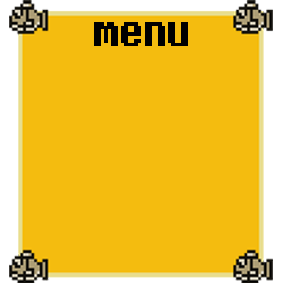
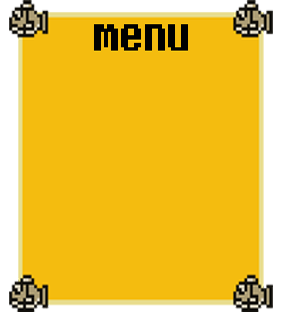
Added Help Screen / Removed menu texture from background screen

diff --git a/fishboy/fishboy/Screens/HelpScreen.cs b/fishboy/fishboy/Screens/HelpScreen.cs
@@ -1,0 +1,146 @@
+#region File Description
+//-----------------------------------------------------------------------------
+// OptionsMenuScreen.cs
+//
+// Microsoft XNA Community Game Platform
+// Copyright (C) Microsoft Corporation. All rights reserved.
+//-----------------------------------------------------------------------------
+#endregion
+
+#region Using Statements
+using Microsoft.Xna.Framework;
+using Microsoft.Xna.Framework.Content;
+using Microsoft.Xna.Framework.Graphics;
+using System;
+using Microsoft.Xna.Framework.Input;
+#endregion
+
+namespace fishboy
+{
+    /// <summary>
+    /// The options screen is brought up over the top of the main menu
+    /// screen, and gives the user a chance to configure the game
+    /// in various hopefully useful ways.
+    /// </summary>
+    class HelpScreen : GameScreen
+    {
+        #region Fields
+        ContentManager content;
+        private string creditsText = "Fuschia \n Game \n Studios";
+        MenuEntry creditsMenuEntry;
+        Texture2D helpScreen;
+        #endregion
+
+        #region Initialization
+
+
+        /// <summary>
+        /// Constructor.
+        /// </summary>
+        public HelpScreen()
+        {
+            TransitionOnTime = TimeSpan.FromSeconds(1.5);
+            TransitionOffTime = TimeSpan.FromSeconds(0.5);
+
+        }
+
+
+        #endregion
+
+        #region Load and UnloadContent
+        /// <summary>
+        /// Loads graphics content for this screen. The background texture is quite
+        /// big, so we use our own local ContentManager to load it. This allows us
+        /// to unload before going from the menus into the game itself, wheras if we
+        /// used the shared ContentManager provided by the Game class, the content
+        /// would remain loaded forever.
+        /// </summary>
+        public override void LoadContent()
+        {
+            if (content == null)
+                content = new ContentManager(ScreenManager.Game.Services, "Content");
+
+            helpScreen = content.Load<Texture2D>("help");
+
+        }
+
+        /// <summary>
+        /// Unload graphics content used by the game.
+        /// </summary>
+        public override void UnloadContent()
+        {
+            content.Unload();
+        }
+
+
+        #endregion
+
+
+        #region update and draw
+
+        /// <summary>
+        /// Updates the state of the game. This method checks the GameScreen.IsActive
+        /// property, so the game will stop updating when the pause menu is active,
+        /// or if you tab away to a different application.
+        /// </summary>
+        public override void Update(GameTime gameTime, bool otherScreenHasFocus,
+                                                       bool coveredByOtherScreen)
+        {
+            base.Update(gameTime, otherScreenHasFocus, coveredByOtherScreen);
+
+
+        }
+
+        /// <summary>
+        /// Draws the menu.
+        /// </summary>
+        public override void Draw(GameTime gameTime)
+        {
+           
+
+            GraphicsDevice graphics = ScreenManager.GraphicsDevice;
+            SpriteBatch spriteBatch = ScreenManager.SpriteBatch;
+            SpriteFont font = ScreenManager.Font;
+
+
+            spriteBatch.Begin();
+            //menu bg
+            spriteBatch.Draw(helpScreen,
+                Vector2.Zero,
+                Color.White);
+
+           
+            spriteBatch.End();
+        }
+        #endregion
+
+        /// <summary>
+        /// Lets the game respond to player input. Unlike the Update method,
+        /// this will only be called when the gameplay screen is active.
+        /// </summary>
+        public override void HandleInput(InputState input)
+        {
+            if (input == null)
+                throw new ArgumentNullException("input");
+
+            // Look up inputs for the active player profile.
+            int playerIndex = (int)ControllingPlayer.Value;
+
+            KeyboardState keyboardState = input.CurrentKeyboardStates[playerIndex];
+            GamePadState gamePadState = input.CurrentGamePadStates[playerIndex];
+
+            // if the user pressed the back button, we return to the main menu
+            PlayerIndex player;
+            if (input.IsNewButtonPress(Buttons.Back, ControllingPlayer, out player))
+            {
+                LoadingScreen.Load(ScreenManager, false, ControllingPlayer, new BackgroundScreen(), new MainMenuScreen());
+            }
+            else
+            {
+                // Otherwise move the player position.
+            }
+        }
+
+
+    }
+}

diff --git a/fishboy/fishboy/Screens/GameplayScreen.cs b/fishboy/fishboy/Screens/GameplayScreen.cs
@@ -54,6 +54,8 @@ namespace fishboy
         int score;
         int hiscore;
         int level;
+        int fishQuantity;
+        float fishVel;
         private float[] angles = { MathHelper.ToRadians(90), MathHelper.ToRadians(45), -MathHelper.ToRadians(45) };
 
         Song theme;
@@ -77,6 +79,7 @@ namespace fishboy
             score = 0;
             level = 1;
             lifes = 4;
+            fishVel = 0.10f;
         }
 
 
@@ -212,20 +215,25 @@ namespace fishboy
                 var fishBoyRect = new Rectangle((int)boy.position.X, (int)boy.position.Y,
                         boyTexture.Width, boyTexture.Height);
 
-                int fishQuantity = FibonacciFishes(level) / level;
 
+              
+                fishQuantity = FibonacciFishes(level);
+                if (level > 7)
+                { 
+                    fishVel = 0.10f *  ( level / (level + 1) );
+                }
                 for (int i = 0; i < fishQuantity; i++)
                 {
                         
-                    fishes[i].update(gameTime, 0.10f);
+                    fishes[i].update(gameTime, fishVel);
                     if (fishes[i].isDead)
                     {
                         lifes--;
-                        fishes.Remove(fishes[i]);
+                        fishes[i].reboot(ScreenManager.GraphicsDevice.Viewport.Height, ScreenManager.GraphicsDevice.Viewport.Width);
                     }else if (fishes[i].hit(fishBoyRect, hit))
                     {
                         score += 10;
-                        fishes.Remove(fishes[i]);
+                        fishes[i].reboot(ScreenManager.GraphicsDevice.Viewport.Height, ScreenManager.GraphicsDevice.Viewport.Width);
                     }
                 }
 
@@ -237,8 +245,9 @@ namespace fishboy
         /// </summary>
         public int FibonacciFishes(int level)
         {
-            int[] sequence = new int[] { 1, 1, 2, 3, 5, 8, 13, 21, 34, 55, 89 };
-            return sequence[level - 1];
+            int[] sequence = new int[] { 1, 1, 2, 3, 5, 8, 13 };
+            int key = level  % 7;
+            return sequence[key];
         }
 
         /// <summary>
@@ -289,6 +298,11 @@ namespace fishboy
 
             //hiscore
             spriteBatch.DrawString(scoreFont,"HISCORE " + hiscore.ToString(), new Vector2(ScreenManager.GraphicsDevice.Viewport.Width / 2 - 90, 20), Color.Red);
+            
+
+            //DEBUG
+            spriteBatch.DrawString(scoreFont, fishQuantity.ToString(), new Vector2(20, 20), Color.Red);
+
 
             //hearts
             var lifePos = new Vector2(ScreenManager.GraphicsDevice.Viewport.Width / 2 - 50, heartTexture.Width + 30);

diff --git a/fishboy/fishboy/Screens/MenuScreen.cs b/fishboy/fishboy/Screens/MenuScreen.cs
@@ -15,6 +15,7 @@ using Microsoft.Xna.Framework.Graphics;
 using Microsoft.Xna.Framework.Input.Touch;
 using Microsoft.Xna.Framework.Input;
 using System.IO.IsolatedStorage;
+using Microsoft.Xna.Framework.Content;
 #endregion
 
 namespace fishboy
@@ -26,13 +27,14 @@ namespace fishboy
     abstract class MenuScreen : GameScreen
     {
         #region Fields
+        ContentManager content;
         // the number of pixels to pad above and below menu entries for touch input
         const int menuEntryPadding = 10;
 
         List<MenuEntry> menuEntries = new List<MenuEntry>();
         int selectedEntry = 0;
         string menuTitle;
-
+        Texture2D menuTexture;
         #endregion
 
         #region Properties
@@ -224,7 +226,10 @@ namespace fishboy
             
 
             spriteBatch.Begin();
-           
+            //menu bg
+            spriteBatch.Draw(menuTexture,
+                new Vector2(ScreenManager.GraphicsDevice.Viewport.Width / 2 - 140, 140),
+                Color.White);
 
             // Draw each menu entry in turn.
             for (int i = 0; i < menuEntries.Count; i++)
@@ -255,6 +260,34 @@ namespace fishboy
             spriteBatch.End();
         }
 
+
+        #endregion
+
+        #region Load and UnloadContent
+        /// <summary>
+        /// Loads graphics content for this screen. The background texture is quite
+        /// big, so we use our own local ContentManager to load it. This allows us
+        /// to unload before going from the menus into the game itself, wheras if we
+        /// used the shared ContentManager provided by the Game class, the content
+        /// would remain loaded forever.
+        /// </summary>
+        public override void LoadContent()
+        {
+            if (content == null)
+                content = new ContentManager(ScreenManager.Game.Services, "Content");
+
+
+            menuTexture = content.Load<Texture2D>("menu_texture");
+
+        }
+
+        /// <summary>
+        /// Unloads graphics content for this screen.
+        /// </summary>
+        public override void UnloadContent()
+        {
+            content.Unload();
+        }
 
         #endregion
     }

diff --git a/fishboy/fishboy/Screens/MainMenuScreen.cs b/fishboy/fishboy/Screens/MainMenuScreen.cs
@@ -30,15 +30,18 @@ namespace fishboy
             // Create our menu entries.
             MenuEntry playGameMenuEntry = new MenuEntry("Play Game");
             MenuEntry optionsMenuEntry = new MenuEntry("Options");
+            MenuEntry helpMenuEntry = new MenuEntry("Help");
             MenuEntry creditsMenuEntry = new MenuEntry("Credits");
 
             // Hook up menu event handlers.
             playGameMenuEntry.Selected += PlayGameMenuEntrySelected;
             optionsMenuEntry.Selected += OptionsMenuEntrySelected;
+            helpMenuEntry.Selected += HelpMenuEntrySelected;
             creditsMenuEntry.Selected += CreditsMenuEntrySelected;
             // Add entries to the menu.
             MenuEntries.Add(playGameMenuEntry);
             MenuEntries.Add(optionsMenuEntry);
+            MenuEntries.Add(helpMenuEntry);
             MenuEntries.Add(creditsMenuEntry);
         }
 
@@ -65,6 +68,17 @@ namespace fishboy
         {
             ScreenManager.AddScreen(new OptionsMenuScreen(), e.PlayerIndex);
         }
+
+
+        /// <summary>
+        /// Event handler for when the Play Game menu entry is selected.
+        /// </summary>
+        void HelpMenuEntrySelected(object sender, PlayerIndexEventArgs e)
+        {
+            LoadingScreen.Load(ScreenManager, true, e.PlayerIndex,
+                               new HelpScreen());
+        }
+
 
         /// <summary>
         /// Event handler for when the Options menu entry is selected.

diff --git a/fishboy/fishboy/Screens/BackgroundScreen.cs b/fishboy/fishboy/Screens/BackgroundScreen.cs
@@ -33,7 +33,7 @@ namespace fishboy
         Texture2D cloud2Texture;
         Texture2D logoTexture;
         Texture2D bubbleTexture;
-        Texture2D menuTexture;
+        
 
         Vector2 cloud1Pos;
         Vector2 cloud2Pos;
@@ -73,7 +73,7 @@ namespace fishboy
             cloud1Texture = content.Load<Texture2D>("cloud1");
             cloud2Texture = content.Load<Texture2D>("cloud2");
             logoTexture = content.Load<Texture2D>("logo");
-            menuTexture = content.Load<Texture2D>("menu_texture");
+            
 
             bubbleTexture = content.Load<Texture2D>("bubblesky");
 
@@ -166,20 +166,10 @@ namespace fishboy
                     new Vector2(rand.Next(0, ScreenManager.GraphicsDevice.Viewport.Width), 
                         rand.Next(0, 85)), Color.White);
             }
-
-            //menu
-            spriteBatch.Draw(menuTexture,
-                new Vector2(ScreenManager.GraphicsDevice.Viewport.Width / 2 - 140, 140),
-                Color.White);
-
             //logo
             spriteBatch.Draw(logoTexture, 
                 new Vector2(ScreenManager.GraphicsDevice.Viewport.Width/2 - 180, 10), 
                 Color.White);
-
-
-
-
 
             spriteBatch.End();
         }

diff --git a/fishboy/fishboy/Screens/GameOverScreen.cs b/fishboy/fishboy/Screens/GameOverScreen.cs
@@ -143,7 +143,7 @@ namespace fishboy
 
 
             spriteBatch.Draw(logoTexture,
-                new Vector2(ScreenManager.GraphicsDevice.Viewport.Width / 2 - 100, ScreenManager.GraphicsDevice.Viewport.Height / 2 - 150), 
+                new Vector2(ScreenManager.GraphicsDevice.Viewport.Width / 2 - 150, ScreenManager.GraphicsDevice.Viewport.Height / 2 - 150), 
                 Color.White);
 
             spriteBatch.End();

diff --git a/fishboy/fishboy/Fish.cs b/fishboy/fishboy/Fish.cs
@@ -88,6 +88,14 @@ namespace fishboy
             return false;
         }
 
+        public void reboot(int height, int width) 
+        { 
+            int newX = rand.Next(this.texture.Width, width - this.texture.Width);
+            this.position = new Vector2((float) newX, (float) height);
+            this.isDead = false;
+            this.isOnTheBeach = false;
+        }
+
 
     }
 }

diff --git a/fishboy/fishboy/ScreenManager/ScreenManager.cs b/fishboy/fishboy/ScreenManager/ScreenManager.cs
@@ -30,7 +30,6 @@ namespace fishboy
     public class ScreenManager : DrawableGameComponent
     {
         #region Fields
-
         List<GameScreen> screens = new List<GameScreen>();
         List<GameScreen> screensToUpdate = new List<GameScreen>();
 
